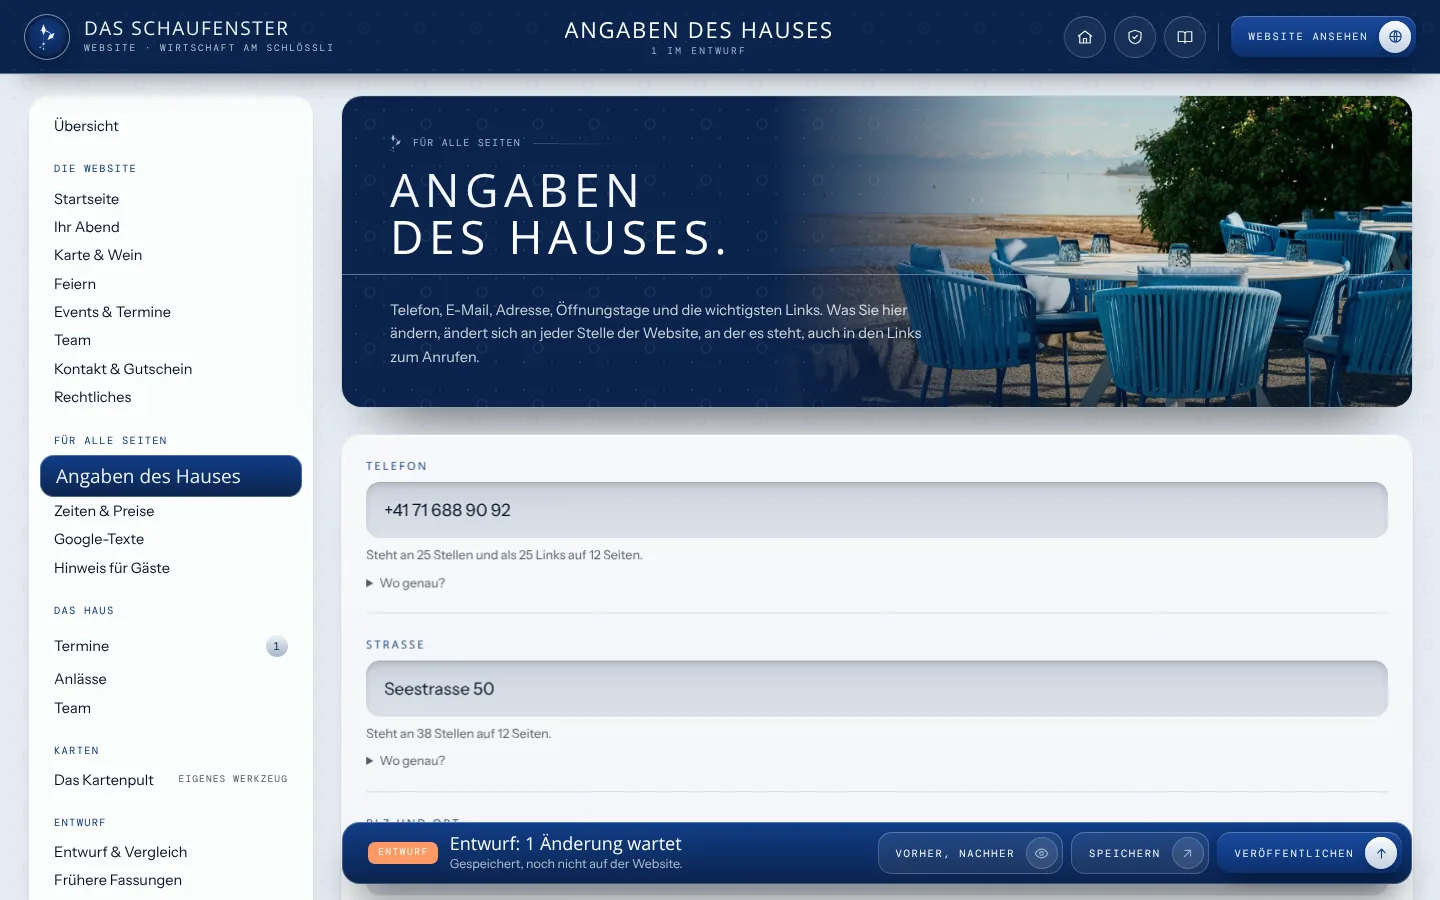
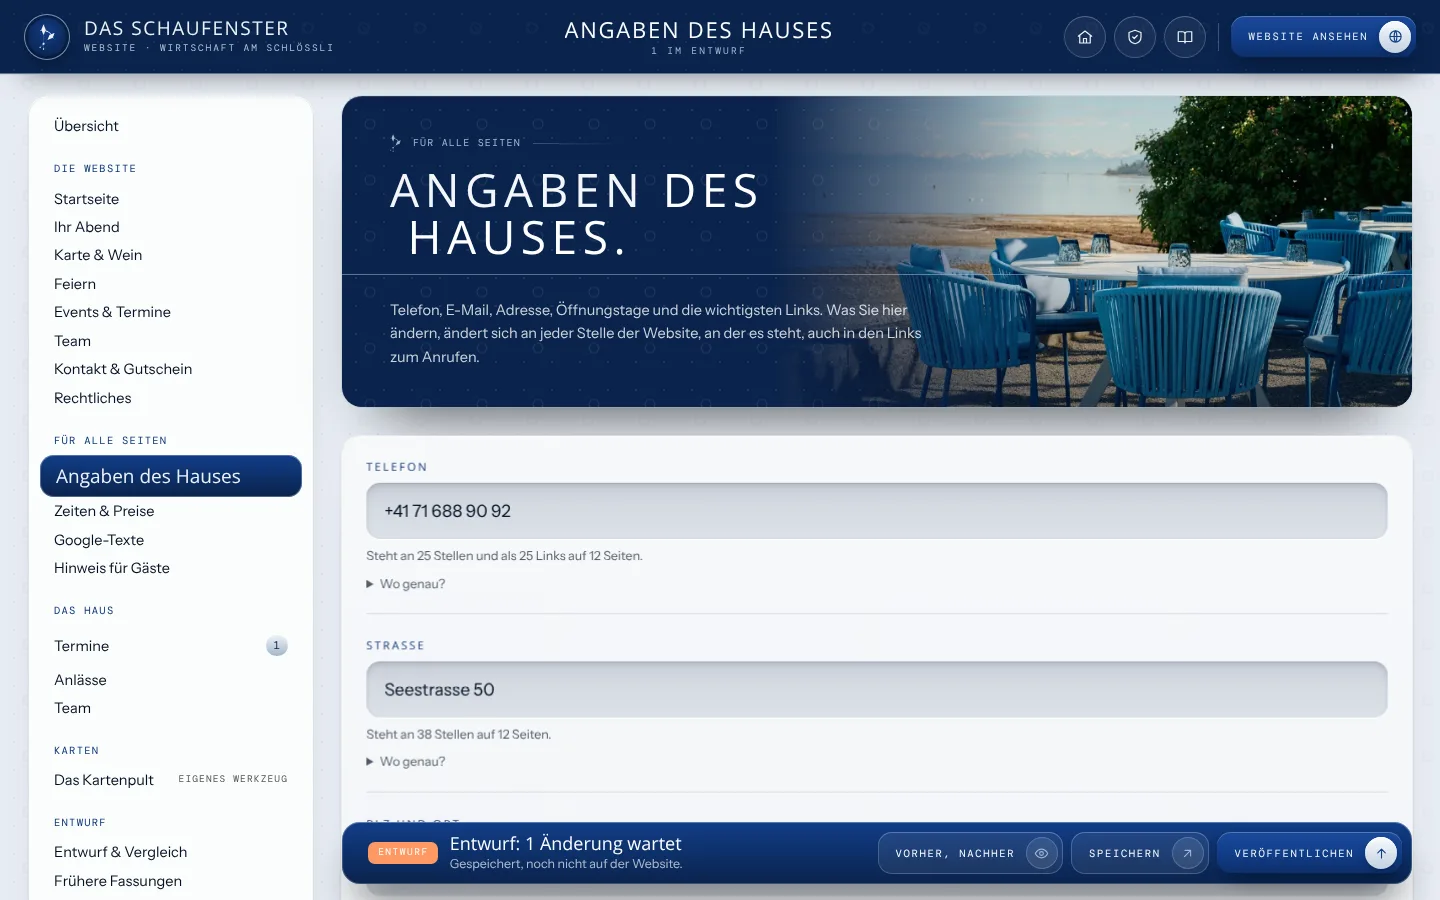
Schaufenster: Funde der schnellen Prüfung behoben (Aufgaben-Raster, Fototitel, lange Felder, Kanten)
Claude-Session: https://claude.ai/code/session_0189oeKjbbQQZEEX38ZwsKfe

diff --git a/Wirtschaft am Schlössli Bottighofen/_werkzeuge/bureau/bureau.css b/Wirtschaft am Schlössli Bottighofen/_werkzeuge/bureau/bureau.css
@@ -208,7 +208,27 @@ body.ws.wo-app{background-color:var(--wo-papier);background-image:var(--wo-tapet
 .ws.wo-app .ws-aufgaben{grid-template-columns:minmax(0,1fr)!important}
 .ws.wo-app .ws-aufgaben > .wo-ag{grid-column:auto!important}
 @media (min-width:620px){.ws.wo-app .ws-aufgaben:has(>.wo-ag:nth-child(9):last-child){grid-template-columns:repeat(3,minmax(0,1fr))!important}}
-.ws.wo-app .ws-aufgaben .wo-ag__t{padding-right:26px}
+.ws.wo-app .ws-aufgaben .wo-ag__t{padding-right:26px;padding-top:0;margin-top:26px}   /* Innenabstand oben als Aussenabstand: Kasten und Titel beginnen auf derselben Höhe (K2 zählt Oberkanten als Zeilen) */
+.ws.wo-app .ws-aufgaben .wo-ag__z{top:-47px}   /* der Knauf sitzt weiter auf der Bildkante */
+/* 901–1179 px: der Rand steht daneben, drei Kacheln hätten je 199 px; hier liegt jede Aufgabe quer, Bild links, Text rechts */
+@media (min-width:901px) and (max-width:1179.98px){
+  .ws.wo-app .ws-aufgaben:has(>.wo-ag:nth-child(9):last-child){grid-template-columns:minmax(0,1fr)!important}
+  .ws.wo-app .ws-aufgaben > .wo-ag{flex-direction:row;align-items:stretch}
+  .ws.wo-app .ws-aufgaben > .wo-ag .wo-ag__b{flex:0 0 38%;aspect-ratio:16/9;height:auto}
+  .ws.wo-app .ws-aufgaben > .wo-ag .wo-ag__t{flex:1 1 auto;margin-top:72px;padding-left:24px}
+  .ws.wo-app .ws-aufgaben > .wo-ag .wo-ag__z{top:-56px;left:24px}
+}
+/* K2 «spalte» bei 1440: der Bildtitel im Fenster «Foto tauschen» hatte 151 px; jede Zelle mindestens 172 px */
+.ws.wo-app .ws-fundus{grid-template-columns:repeat(auto-fill,minmax(172px,1fr))}
+/* K2 «randlos»: Knöpfe des Stamms in Fenstern («Speichern») mit Innenabstand wie die Knöpfe des Rahmens */
+.ws.wo-app .ws-fenster__kn .kn{padding:0 6px 0 20px}
+/* K6 Kante: Reihe kleiner Tasten unter einem Absatz rückt um den Innenabstand der ersten Taste nach links, ihre Schrift steht auf der Kante des Absatzes */
+.ws.wo-app .ws-karte > .ws-reihe:has(> .ws-taste:first-child){margin-left:-15px}
+/* K7: «Ändern» im Kopf eines Eintrags stand allein in der letzten Zeile; es heisst «Eintrag ändern» */
+.ws.wo-app .ws-eintrag__auf{font-size:0}
+.ws.wo-app .ws-eintrag__auf::before{content:"Eintrag ändern";font-size:13px}
+/* Lange Felder (Google-Titel, Instagram-Adresse) als mitwachsendes Feld (termine-ansicht.js › langFelder) */
+.ws.wo-app textarea.ws-langfeld{display:block;width:100%;box-sizing:border-box;min-height:0!important;resize:none;overflow:hidden;white-space:pre-wrap;overflow-wrap:anywhere}
 /* K2 «randlos»: der Link «In der Seite» unter Zeiten & Preise und die Bildtitel im Fenster «Foto tauschen» liefen bis an den Rand ihres Knopfs */
 .ws.wo-app .ws-zl > .ws-link{padding-inline:4px}
 .ws.wo-app .ws-fwahl__t{padding-inline:4px}
@@ -222,8 +242,6 @@ body.ws.wo-app{background-color:var(--wo-papier);background-image:var(--wo-tapet
 /* K6 Kante: die Google-Vorschau rückt ihren Rahmen nach aussen, damit ihre Zeilen auf der Kante von Titel und Feldern stehen */
 .ws.wo-app .ws-gt__vorschau{margin-inline:-18px}
 @media (max-width:560px){.ws.wo-app .ws-gt__vorschau{margin-inline:-12px;padding-inline:12px}}
-/* «gekürzt» am Handy: die Instagram-Adresse (49 Zeichen) stand in 17 px breiter als das Feld */
-@media (max-width:560px){.ws.wo-app #ws-ang-instagram{font-size:11.5px;padding-inline:8px;letter-spacing:0}}
 /* K5 Frühere Fassungen, Beispielzeile: drei Teile in drei Spalten (die Notiz drückte die Zeit auf null Breite) */
 .cu-vl__z--beispiel{grid-template-columns:96px minmax(0,190px) minmax(0,1fr)}
 @media (max-width:860px){.cu-vl__z--beispiel{grid-template-columns:1fr}}

diff --git a/Wirtschaft am Schlössli Bottighofen/_werkzeuge/bureau/termine-ansicht.js b/Wirtschaft am Schlössli Bottighofen/_werkzeuge/bureau/termine-ansicht.js
@@ -355,8 +355,9 @@
   /* K7 (schnelle Prüfung 3.11.2026): Titel der Bühne («KONTAKT & GUTSCHEIN», «EVENTS & TERMINE») ohne einzelnes Wort in der letzten Zeile:
      das letzte Leerzeichen des Titels, auch über die Grenze von <em> hinweg, wird ein festes */
   function titelFest() {
-    document.querySelectorAll('.wo-sb__h:not([data-fest])').forEach(function (h) {
+    document.querySelectorAll('.wo-sb__h:not([data-fest]), .ws-gt__kopf h2:not([data-fest])').forEach(function (h) {
       h.setAttribute('data-fest', '');
+      if (h.textContent.trim().split(/\s+/).length < 3) return;   /* zwei Wörter dürfen umbrechen («FRÜHERE / FASSUNGEN.»), sonst ragt der Titel am Handy hinaus */
       var w = document.createTreeWalker(h, NodeFilter.SHOW_TEXT), n, alle = [];
       while ((n = w.nextNode())) alle.push(n);
       var ende = true;
@@ -368,7 +369,29 @@
       }
     });
   }
+  /* Lange einzeilige Felder (Google-Titel, Instagram-Adresse): ein Eingabefeld zeigt 60 Zeichen nie ganz («gekürzt», am Handy schon gar nicht). Daneben steht
+     ein mitwachsendes Feld, das jede Eingabe an das Feld des Stamms weitergibt (Wert und input-Ereignis); das Feld des Stamms bleibt der einzige Speicherweg. */
+  function langFelder() {
+    document.querySelectorAll('.ws-gt input[id^="ws-gt-t-"]:not([data-lang]), #ws-ang-instagram:not([data-lang])').forEach(function (i) {
+      i.setAttribute('data-lang', '');
+      var c = getComputedStyle(i), t = document.createElement('textarea');
+      t.className = 'ws-langfeld ' + i.className; t.rows = 1; t.value = i.value; t.spellcheck = false;
+      t.setAttribute('aria-label', (i.labels && i.labels[0] ? i.labels[0].firstChild.textContent : i.getAttribute('aria-label') || '').trim());
+      if (i.maxLength > 0) t.maxLength = i.maxLength;
+      ['font', 'letterSpacing', 'color', 'background', 'boxShadow', 'border', 'borderRadius', 'paddingTop', 'paddingBottom', 'paddingLeft', 'paddingRight'].forEach(function (k) { t.style[k] = c[k]; });
+      t.style.lineHeight = '1.4';
+      var hoehe = function () { t.style.height = 'auto'; t.style.height = Math.max(parseFloat(c.height) || 0, t.scrollHeight) + 'px'; };
+      t.addEventListener('input', function () { var v = t.value.replace(/\s*\n\s*/g, ' '); if (v !== t.value) t.value = v; i.value = v; i.dispatchEvent(new Event('input', { bubbles: true })); i.dispatchEvent(new Event('change', { bubbles: true })); hoehe(); });
+      t.addEventListener('keydown', function (ev) { if (ev.key === 'Enter') ev.preventDefault(); });
+      t.addEventListener('blur', function () { i.dispatchEvent(new Event('blur')); });
+      i.addEventListener('input', function () { if (t.value !== i.value) { t.value = i.value; hoehe(); } });   /* «Wie ursprünglich» setzt das Feld des Stamms */
+      i.style.display = 'none';
+      i.after(t);
+      if (i.labels && i.labels[0]) i.labels[0].addEventListener('click', function (ev) { ev.preventDefault(); t.focus(); });
+      hoehe(); requestAnimationFrame(hoehe);
+    });
+  }
   var plan = 0;
-  function alles() { plan = 0; fest(); ganz(); ohneX(); titelFest(); }
+  function alles() { plan = 0; fest(); ganz(); ohneX(); titelFest(); langFelder(); }
   if (window.MutationObserver) new MutationObserver(function () { if (!plan) plan = requestAnimationFrame(alles); }).observe(document.documentElement, { childList: true, subtree: true, characterData: true });
 })();

diff --git a/Wirtschaft am Schlössli Bottighofen/_werkzeuge/bureau/index.html b/Wirtschaft am Schlössli Bottighofen/_werkzeuge/bureau/index.html
@@ -19,7 +19,7 @@
 <link rel="stylesheet" href="/assets/oberflaeche/grund.css?v=981c6e9a15"><link rel="stylesheet" href="/assets/oberflaeche/rahmen-buehne.css?v=ccc7710904"><link rel="stylesheet" href="/assets/oberflaeche/kleid/schloessli.css?v=848b37e7ec">
 <link rel="stylesheet" href="/werkzeuge/website/website.css?v=acef18c497">   <!-- nach dem Paket: grund.css setzt Knöpfe und Absätze in wo-Flächen zurück, die Arbeitsfläche braucht ihre eigenen -->
 <link rel="stylesheet" href="schweben.css?v=e4f5bfd0d4">
-<link rel="stylesheet" href="bureau.css?v=05f4493c52">   <!-- nach dem Paket: Brücke der Werte (welt.css → Kleid des Hauses), Arbeitsfläche und Ansicht «Termine» -->
+<link rel="stylesheet" href="bureau.css?v=7a30c09ecf">   <!-- nach dem Paket: Brücke der Werte (welt.css → Kleid des Hauses), Arbeitsfläche und Ansicht «Termine» -->
 </head>
 <body class="ws wo-app">
 <header class="wo-kopf" id="ws-kopf"></header>
@@ -30,7 +30,7 @@
 <div id="ws-fenster"></div>
 <noscript><p class="ws-not">Dieses Werkzeug braucht JavaScript. <a href="/werkzeuge/website/pruefung.html?haus=schloessli">Zur Prüfung</a></p></noscript>
 <script src="/assets/oberflaeche/oberflaeche.js?v=0b1fa78a6c"></script>
-<script src="termine-ansicht.js?v=b97aa26ea0"></script>   <!-- vor website.js: die Ansicht «Termine» muss beim Start bekannt sein -->
+<script src="termine-ansicht.js?v=b95c6a43ac"></script>   <!-- vor website.js: die Ansicht «Termine» muss beim Start bekannt sein -->
 <script src="/werkzeuge/website/website.js?v=906ffef431"></script>
 <script src="zur-werkbank.js?v=5f1e964036" defer data-zw data-neben="#ws-rand" data-luft="40" data-ueber="#ws-leiste"></script>
 <script src="rundgang.js?v=e4ac629866" defer></script>

diff --git a/Wirtschaft am Schlössli Bottighofen/_werkzeuge/bureau/pruefung/anleitung_bilder.js b/Wirtschaft am Schlössli Bottighofen/_werkzeuge/bureau/pruefung/anleitung_bilder.js
@@ -30,7 +30,7 @@ const frei = () => new Promise(r => { const s = net.createServer(); s.listen(0, 
   await geh('haus:team'); const ein = p.locator('details.ws-eintrag').nth(1); await ein.locator('summary').click(); await warte(500);
   await ein.locator('button.ws-foto').first().click({ force: true }); await p.waitForSelector('[data-ws-fenster="bild"]'); await warte(1500); fertig.push(['foto', await bild('foto')]);
   await geh('angaben'); fertig.push(['angaben', await bild('angaben')]);
-  await geh('google'); await p.locator('[data-ws-seo="abend.html"] [data-ws-gt="titel"]').fill('Ihr Abend am Tisch · Wirtschaft am Schlössli Bottighofen'); await p.locator('#ws-speichern').click(); await warte(1500);
+  await geh('google'); await p.locator('[data-ws-seo="abend.html"] textarea.ws-langfeld').fill('Ihr Abend am Tisch · Wirtschaft am Schlössli Bottighofen'); await p.locator('#ws-speichern').click(); await warte(1500);
   await geh('google'); await p.locator('[data-ws-seo="abend.html"]').scrollIntoViewIfNeeded(); await warte(800); fertig.push(['google', await bild('google')]);
   await geh('entwurf'); fertig.push(['entwurf', await bild('entwurf')]);
   await geh('verlauf'); fertig.push(['verlauf', await bild('verlauf')]);
